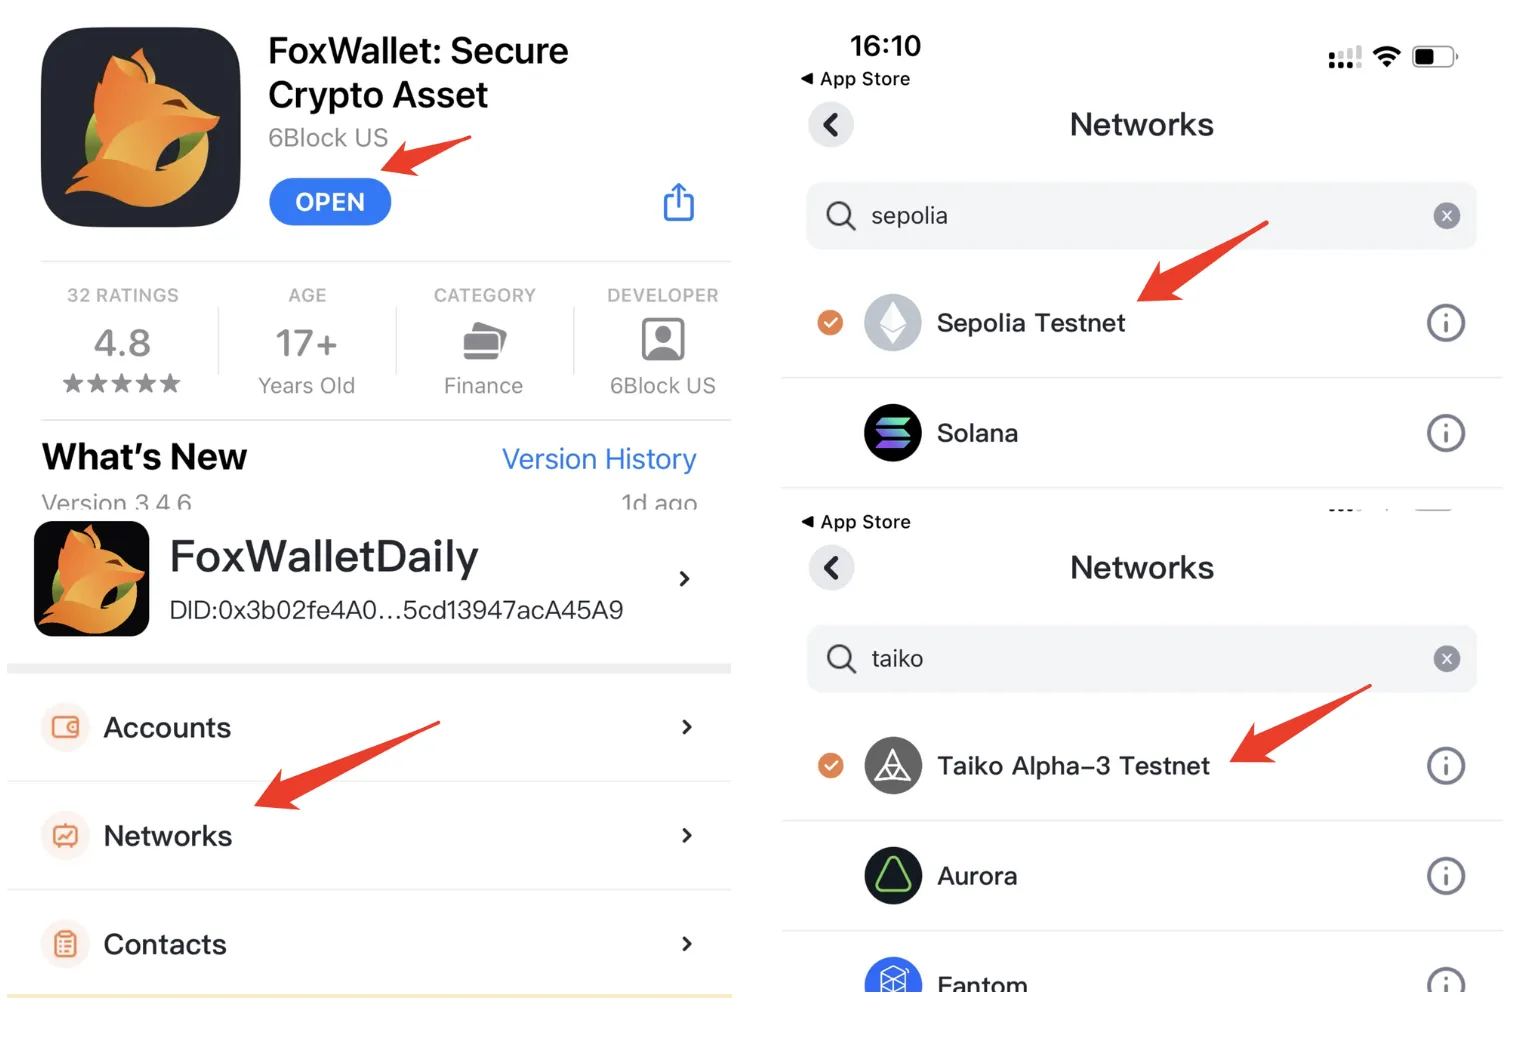
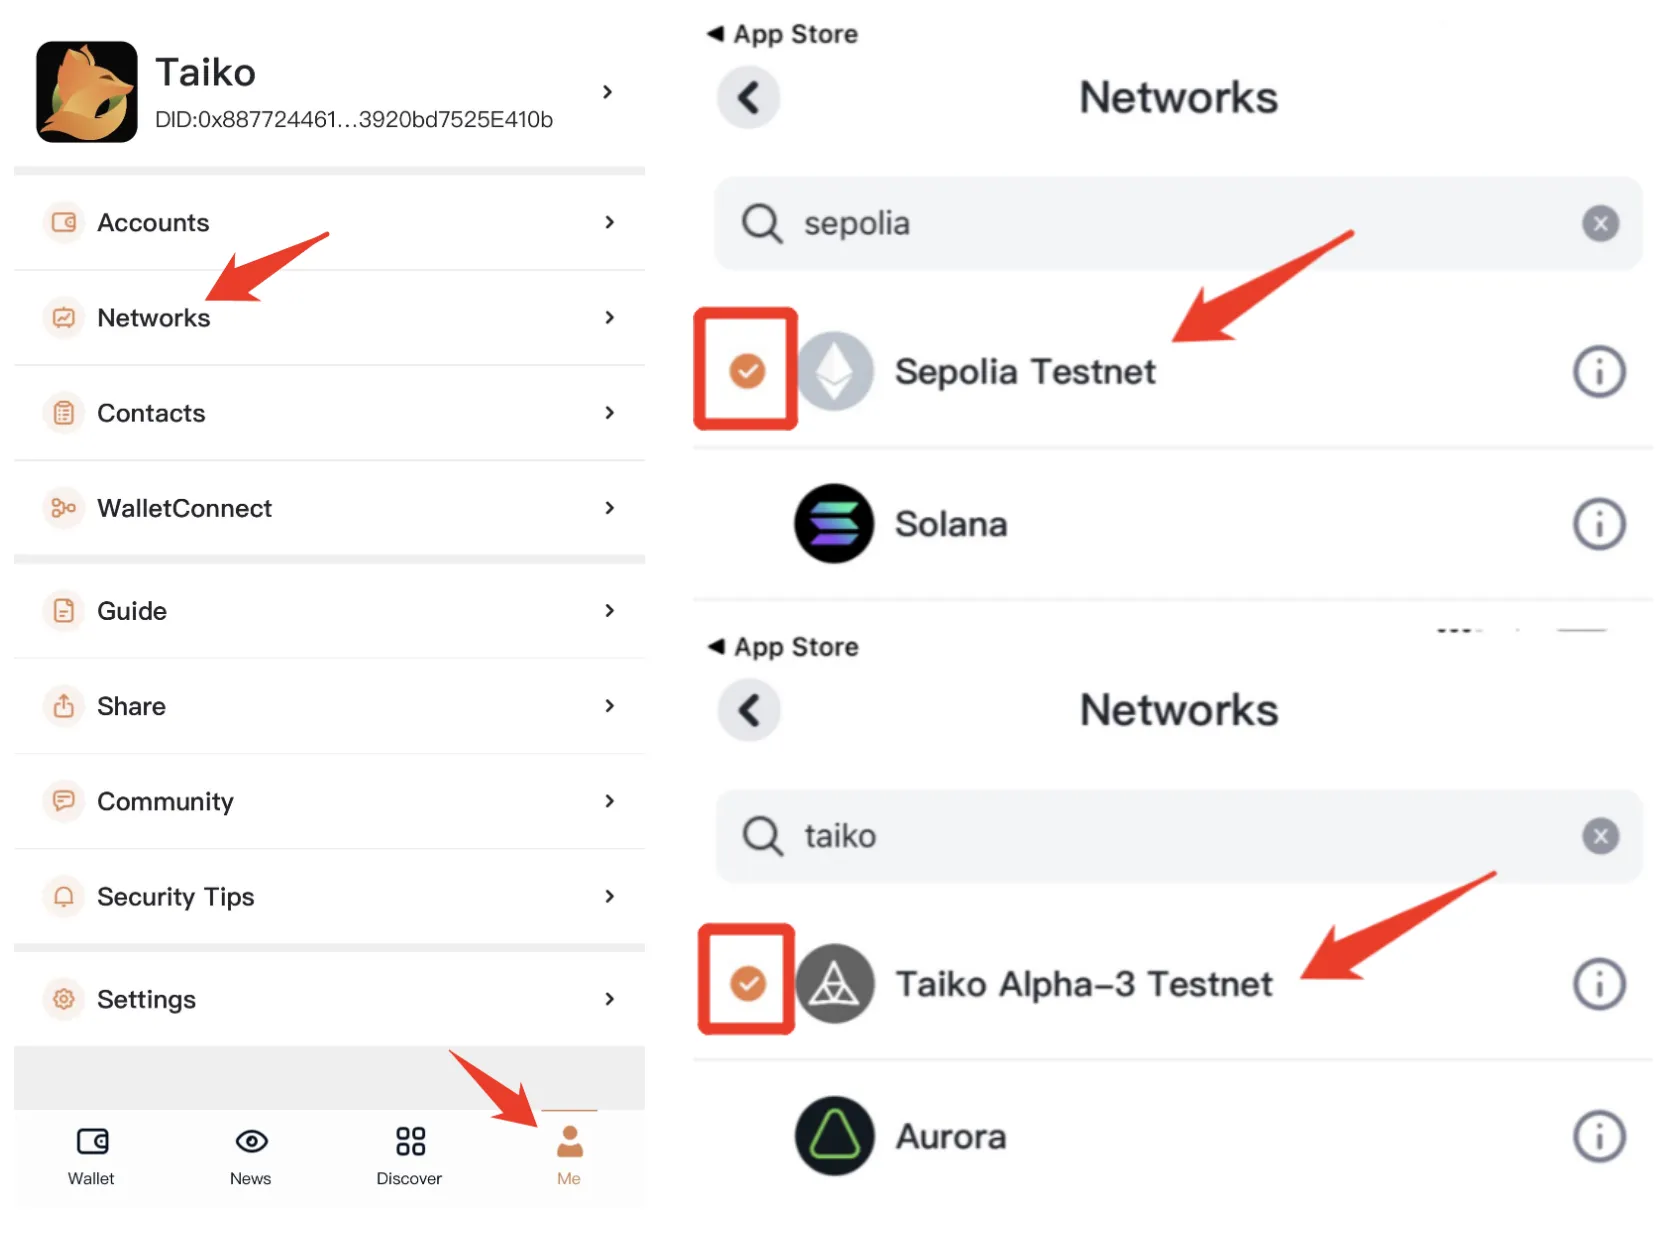
update

diff --git a/blog/2023-07-06-taiko-alpha3-tutorial.md b/blog/2023-07-06-taiko-alpha3-tutorial.md
@@ -33,19 +33,19 @@ According to the latest reports, Taiko raised a total of $22 million in its seed
 
 ### First, add Sepolia and Taiko Alpha-3 Testnet to FoxWallet
 * Download FoxWallet: https://foxwallet.com/download
-* Go to "Me" -> "Networks" -> "Testnets" -> find `Sepolia Testnet` and `Taiko Alpha-3 Testnet`, select to enable them.
+* Go to "Me" -> "Networks" -> Search `Sepolia Testnet` and `Taiko Alpha-3 Testnet` -> select to enable them.
 
 ![](/img/blog/taiko-alpha3-tutorial/2.webp)
 
 ### Switch network to Taiko Alpha-3 Testnet and add test tokens
 * Click the switch button on the left-top corner of "wallet" screen to switch networks
 * Switch network to `Taiko Alpha-3 Testnet`
-* Click the add button and input contract address to add tokens
+![](/img/blog/taiko-alpha3-tutorial/2-1.webp)
+* Click the add icon and input contract address to add tokens
     * BLL: `0x6302744962a0578E814c675B40909e64D9966B0d`
     * HORSE: `0xa4505BB7AA37c2B68CfBC92105D10100220748EB`
     * TTKO: `0x7b1a3117B2b9BE3a3C31e5a097c7F890199666aC`
-
-![](/img/blog/taiko-alpha3-tutorial/3.webp)
+    * ![](/img/blog/taiko-alpha3-tutorial/3.webp)
 
 ### Claim Sepolia ETH test coins
 * Switch network to `Sepolia Testnet`
@@ -70,7 +70,6 @@ According to the latest reports, Taiko raised a total of $22 million in its seed
 * Connect wallet
 * Select tokens to mint, ensure that you have Sepolia ETH in your wallet as gas.
 ![](/img/blog/taiko-alpha3-tutorial/7.webp)
-![](/img/blog/taiko-alpha3-tutorial/8.webp)
 
 ### Use Taiko official bridge, from Sepolia to Taiko
 * Open https://bridge.test.taiko.xyz
@@ -81,11 +80,14 @@ According to the latest reports, Taiko raised a total of $22 million in its seed
 ![](/img/blog/taiko-alpha3-tutorial/9.webp)
 * Send the transaction on your FoxWallet
 * To bridge BLL and HORSE, you need "Approve" first
+![](/img/blog/taiko-alpha3-tutorial/10.webp)
 * Go to "Transactions" tab, you can check if the tokens have been credited to your account, they will be automatically claimed after a while
 ![](/img/blog/taiko-alpha3-tutorial/11.webp)
 
 ### Bridge back from Taiko to Sepolia
-* The operation is almost the same as above, just change the location of Sepolia and Taiko
+* Click the "Switch network" button, and click the "Confirm" button on FoxWallet
+![](/img/blog/taiko-alpha3-tutorial/12.webp)
+* The bridge operation is almost the same as above
 * After confirming that Taiko goes to Sepolia, bridge ETH/BLL/HORESE back in turn according to the previous operation
 ![](/img/blog/taiko-alpha3-tutorial/13.webp)
 
